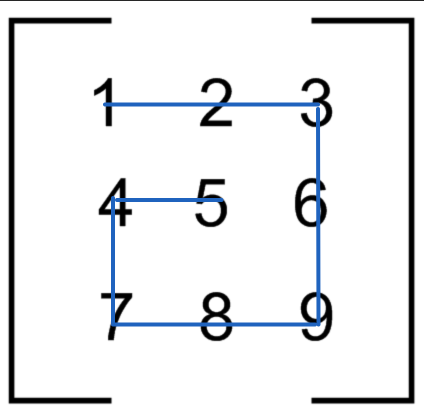
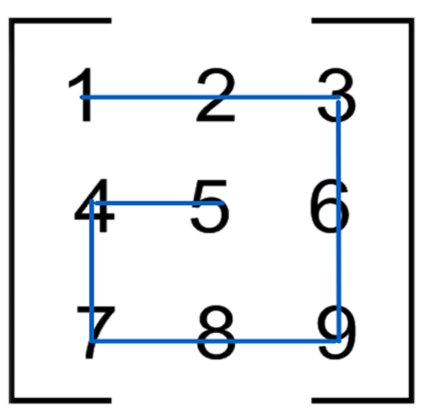
change readme + fix imgs

Changed region(s): [[0.1533, 0.1551, 0.8585, 0.8687], [0.0, 0.0931, 0.0307, 0.9618]]

diff --git a/snail/README.md b/snail/README.md
@@ -7,11 +7,14 @@
 представляется вот так: `[[1, 2, 3], [4, 5, 6], [7, 8, 9]]`. 
 
 
+## src/solution.py
 
-##src/solution.py
 Реализуйте функцию `snail`, которая принимает на вход квадратную матрицу в виде двумерного списка и возвращает список элементов матрицы по порядку следования от левого верхнего элемента по часовой стрелке к внутреннему. Вид движения по матрице напоминает улитку:
 
-![](/images/snail_matrix.png) ![](/images/snail_matrix2.png)
+<img src='images/snail_matrix.png' width=200> <img src='images/snail_matrix2.png' width=200>
+
+Для первой картинки результат работы функции должен быть таким:
+`[1, 2, 3, 6, 9, 8, 7, 4, 5]`
 
 
 ## Примеры использования:
